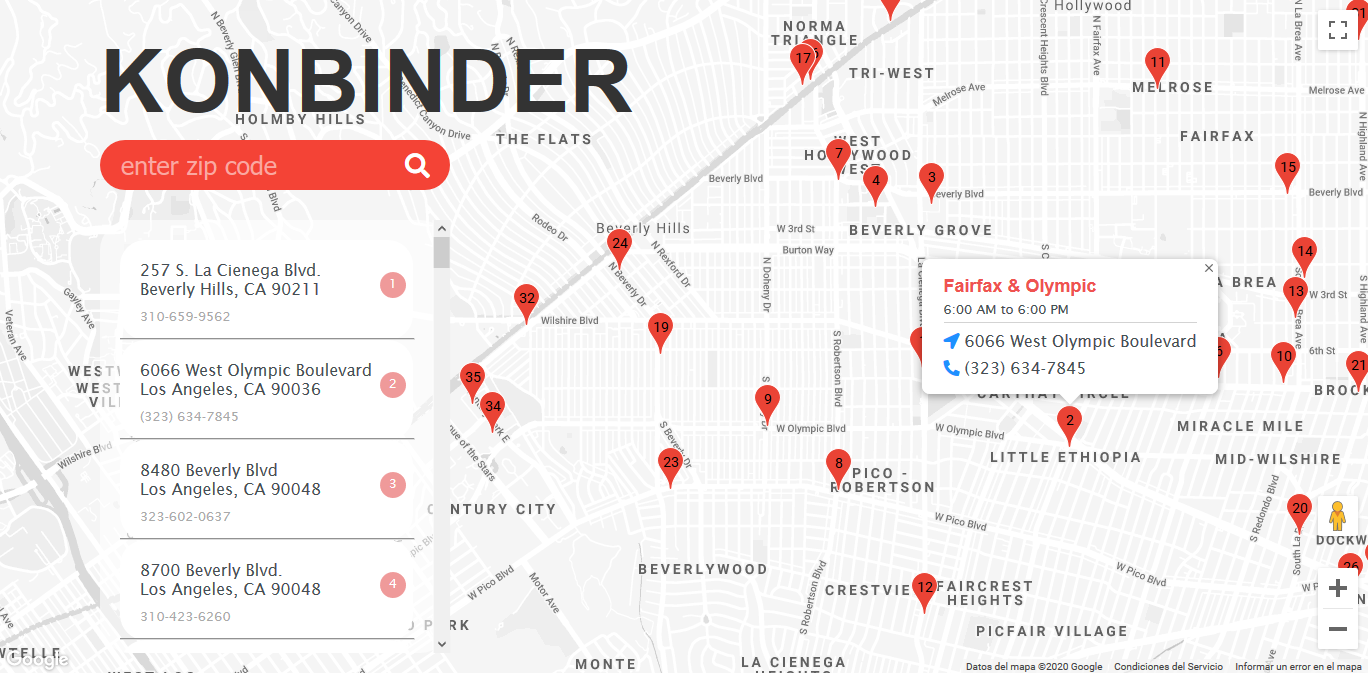
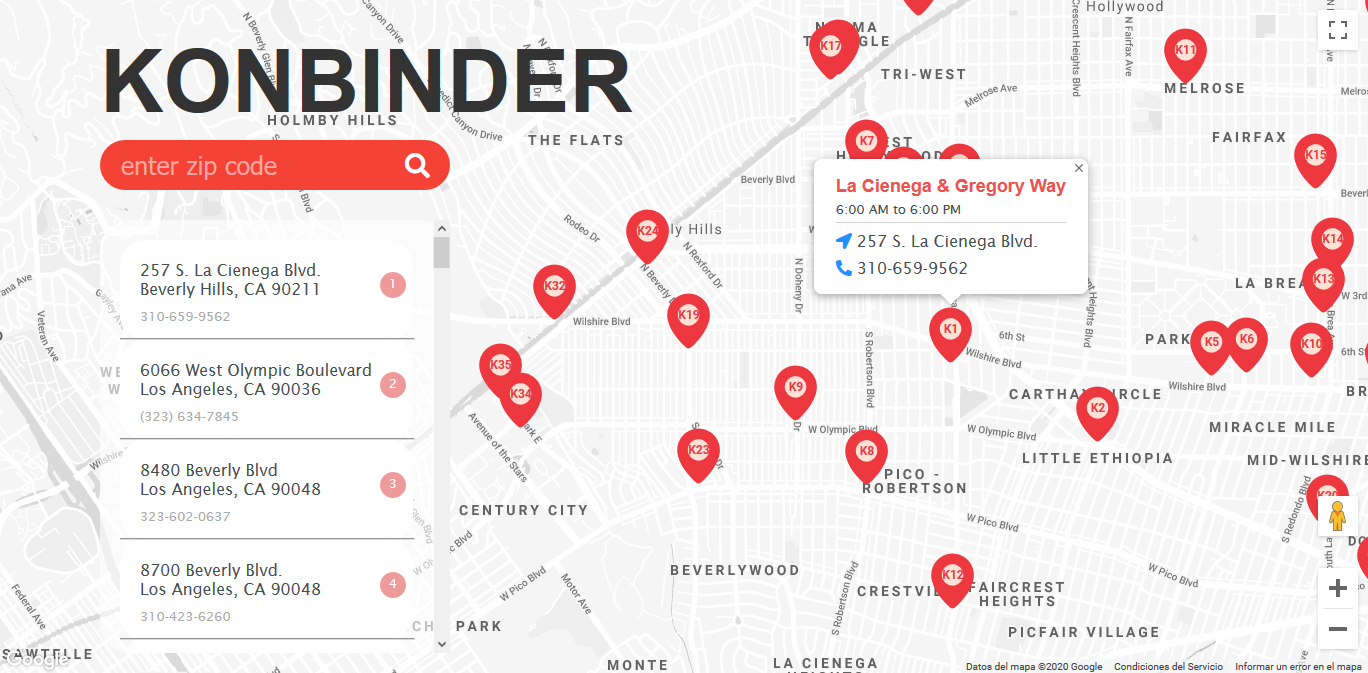
one listener per store container within store list, to activate certain information window

diff --git a/js/index.js b/js/index.js
@@ -8,6 +8,7 @@ var map;
 // to be able to store the markers and remove them globally
 var mapMarker;
 // mapBound should be global to fix it at the markers location
+var storesIds = [];
 var mapBoundListener;
 var currentStores;
 var searchInput;
@@ -19,7 +20,7 @@ var positionLabelColor = "#eb3a44";
 
 // Icons made by 
 // <a href="https://www.flaticon.com/authors/freepik" title="Freepik">Freepik</a> from <a href="https://www.flaticon.com/" title="Flaticon"> www.flaticon.com</a>
-var iconBase = 'https://raw.githubusercontent.com/eduardorasgado/StoreLocator/master/assets/';
[1 lines of base64/hex data omitted]
 /**
  * before page loads input search is located and a event is inserted within it
  */
@@ -38,7 +39,7 @@ window.onload = () => {
  * First time google maps load
  */
 function initMap() {
-    storeIcon = iconBase + 'locator.svg';
+    //storeIcon = iconBase + 'locator.svg';
     mapOptions = {
         center: la, 
         zoom:14,
@@ -99,6 +100,7 @@ function getAddressesByZipCode(zipCode = '') {
  * inserting every location within store data within the store list
  */
 function addressesLoader() {
+    storesIds = []; // reseting the id container list
     let storeListContainer = document.getElementsByClassName('stores-list-container')[0];
     
     storeListContainer.innerHTML = '';
@@ -132,12 +134,16 @@ function addressesLoader() {
         let circle;
         let cicleSpan;
         for(let [index, store] of currentStores.entries()) {
+            // saving the id of the current stores to add the specific
+            // eventListener to information window
+            storesIds.push(store.storeNumber);
             //console.log(store)
             // rendering the first 4 stores, for the moment, this will be dynamic
             data = `${store.addressLines[0]} <br>${store.addressLines[1]}`
 
             storeContainer = document.createElement("div");
             storeContainer.className = "store-container";
+            storeContainer.id = store.storeNumber;
 
             cicleSpan = document.createElement("span");
             cicleSpan.innerHTML = index+1;
@@ -208,7 +214,7 @@ function addSingleMarker(index, latLng, name, address) {
     let content = `<span class='marker'>${name} ${address}</span>`;
     
     var markerIcon = {
-        url: storeIcon,
+        url: iconBase,
         scaledSize: new google.maps.Size(55, 60),
         origin: new google.maps.Point(0, 0),
         anchor: new google.maps.Point(32,65),
@@ -263,7 +269,7 @@ function addInformationWindows() {
             name: store.name,
             schedule: store.schedule[0].hours,
             address: store.addressLines[0],
-            phone: store.phoneNumber
+            phone: store.phoneNumber,
         };
         storesData.push(data);
     })
@@ -280,7 +286,9 @@ function addInformationWindows() {
                 }
             })(mapMarker)
         );
-    })
+    });
+
+    prepareStoresListeners(storesData);
 }
 
 function createInfoWindowContent(storeData) {
@@ -307,6 +315,26 @@ function createInfoWindowContent(storeData) {
     </div>
     `;
     
+}
+
+function prepareStoresListeners(storesData) {
+
+    // for every marker assume we have a store within storesIds
+    // we link a listener for every stor container
+    markersList.forEach((mapMarker, index) => {
+        
+        let storeListener = document.getElementById(storesIds[index]);
+        let content = createInfoWindowContent(storesData[index])
+
+        storeListener.addEventListener("click", 
+            (function(mapMarker) {
+                return function() {
+                    gMapsInfoWindow.setContent(content);
+                    gMapsInfoWindow.open(map, mapMarker);
+                }
+            })(mapMarker)
+        );
+    })
 }
 
 /**
